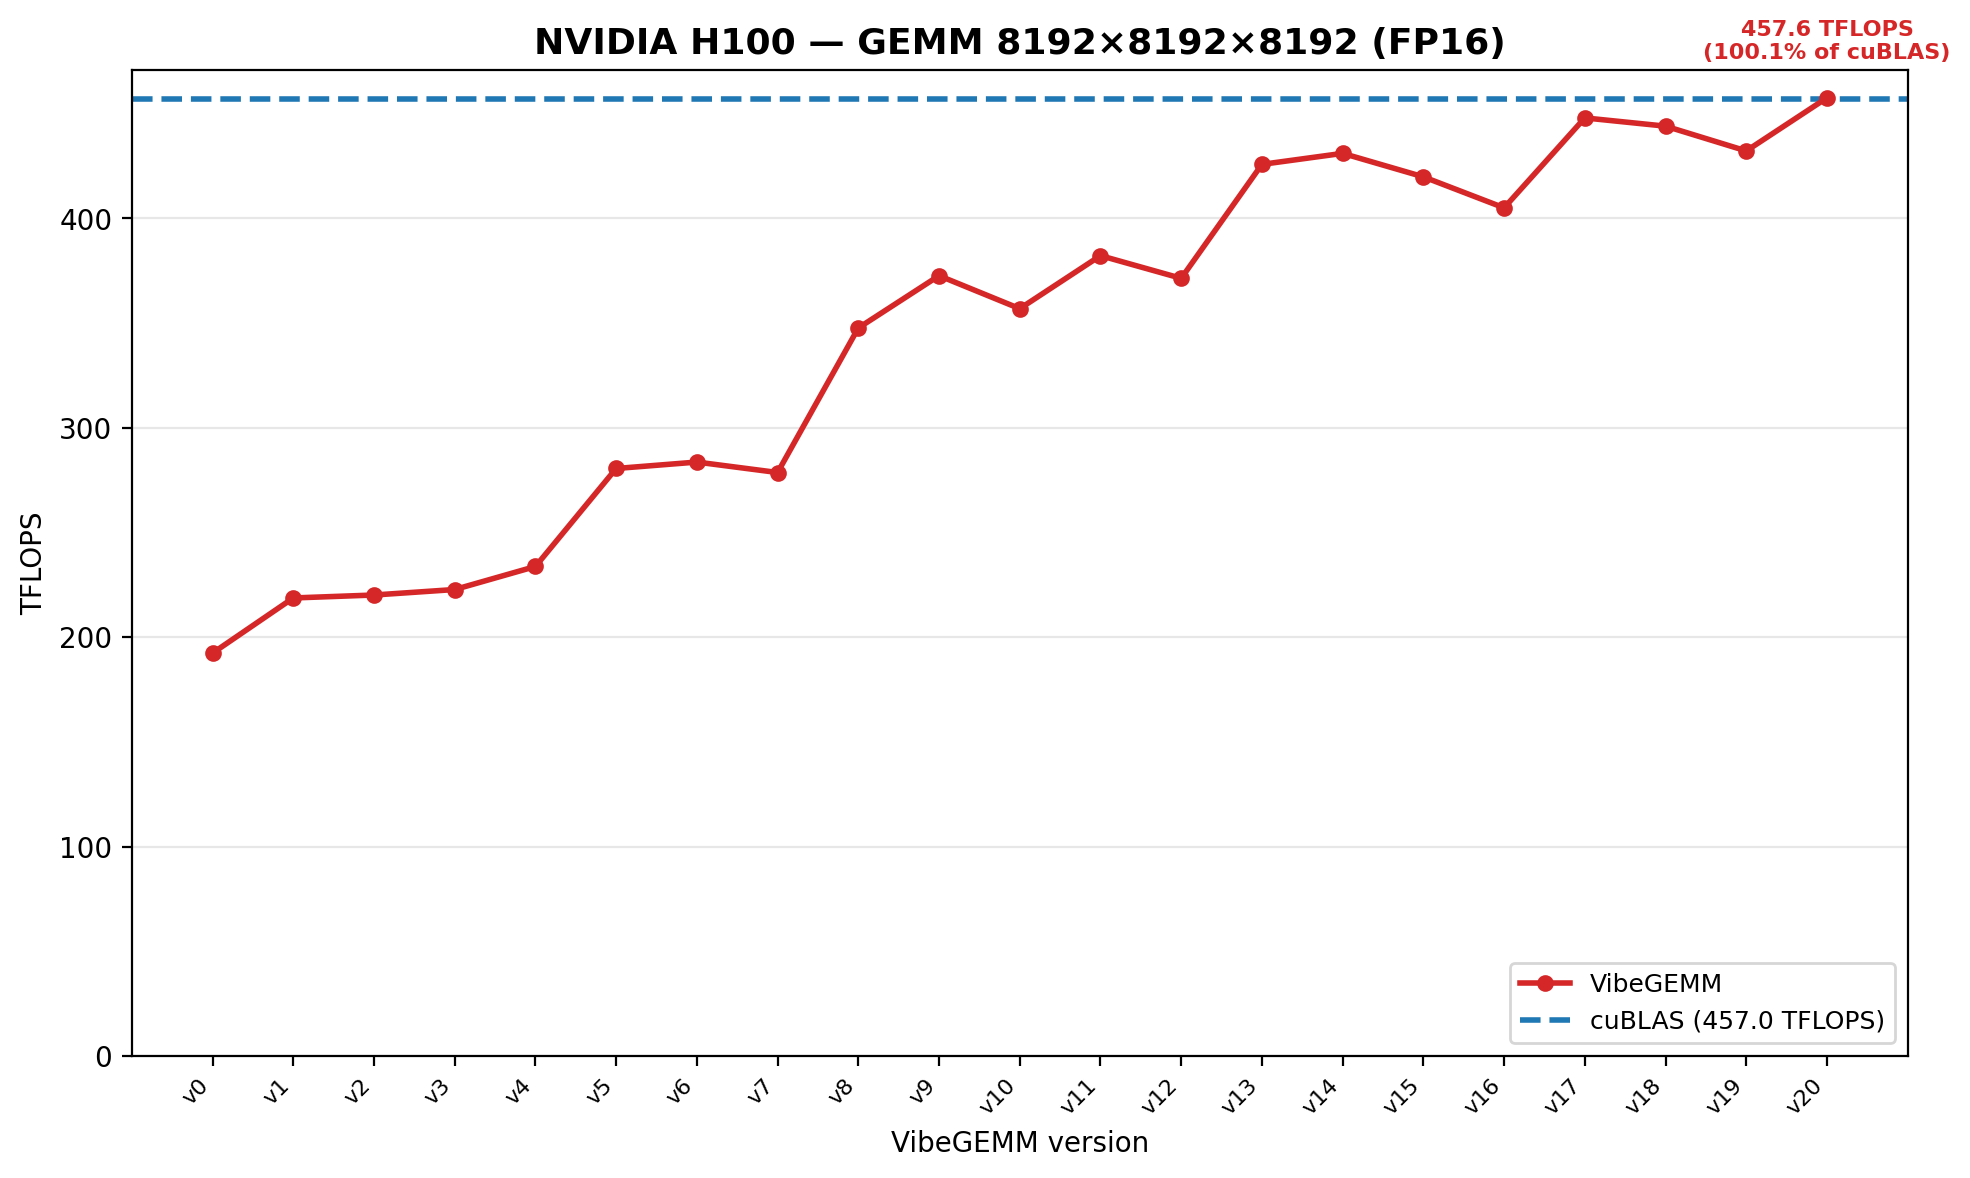
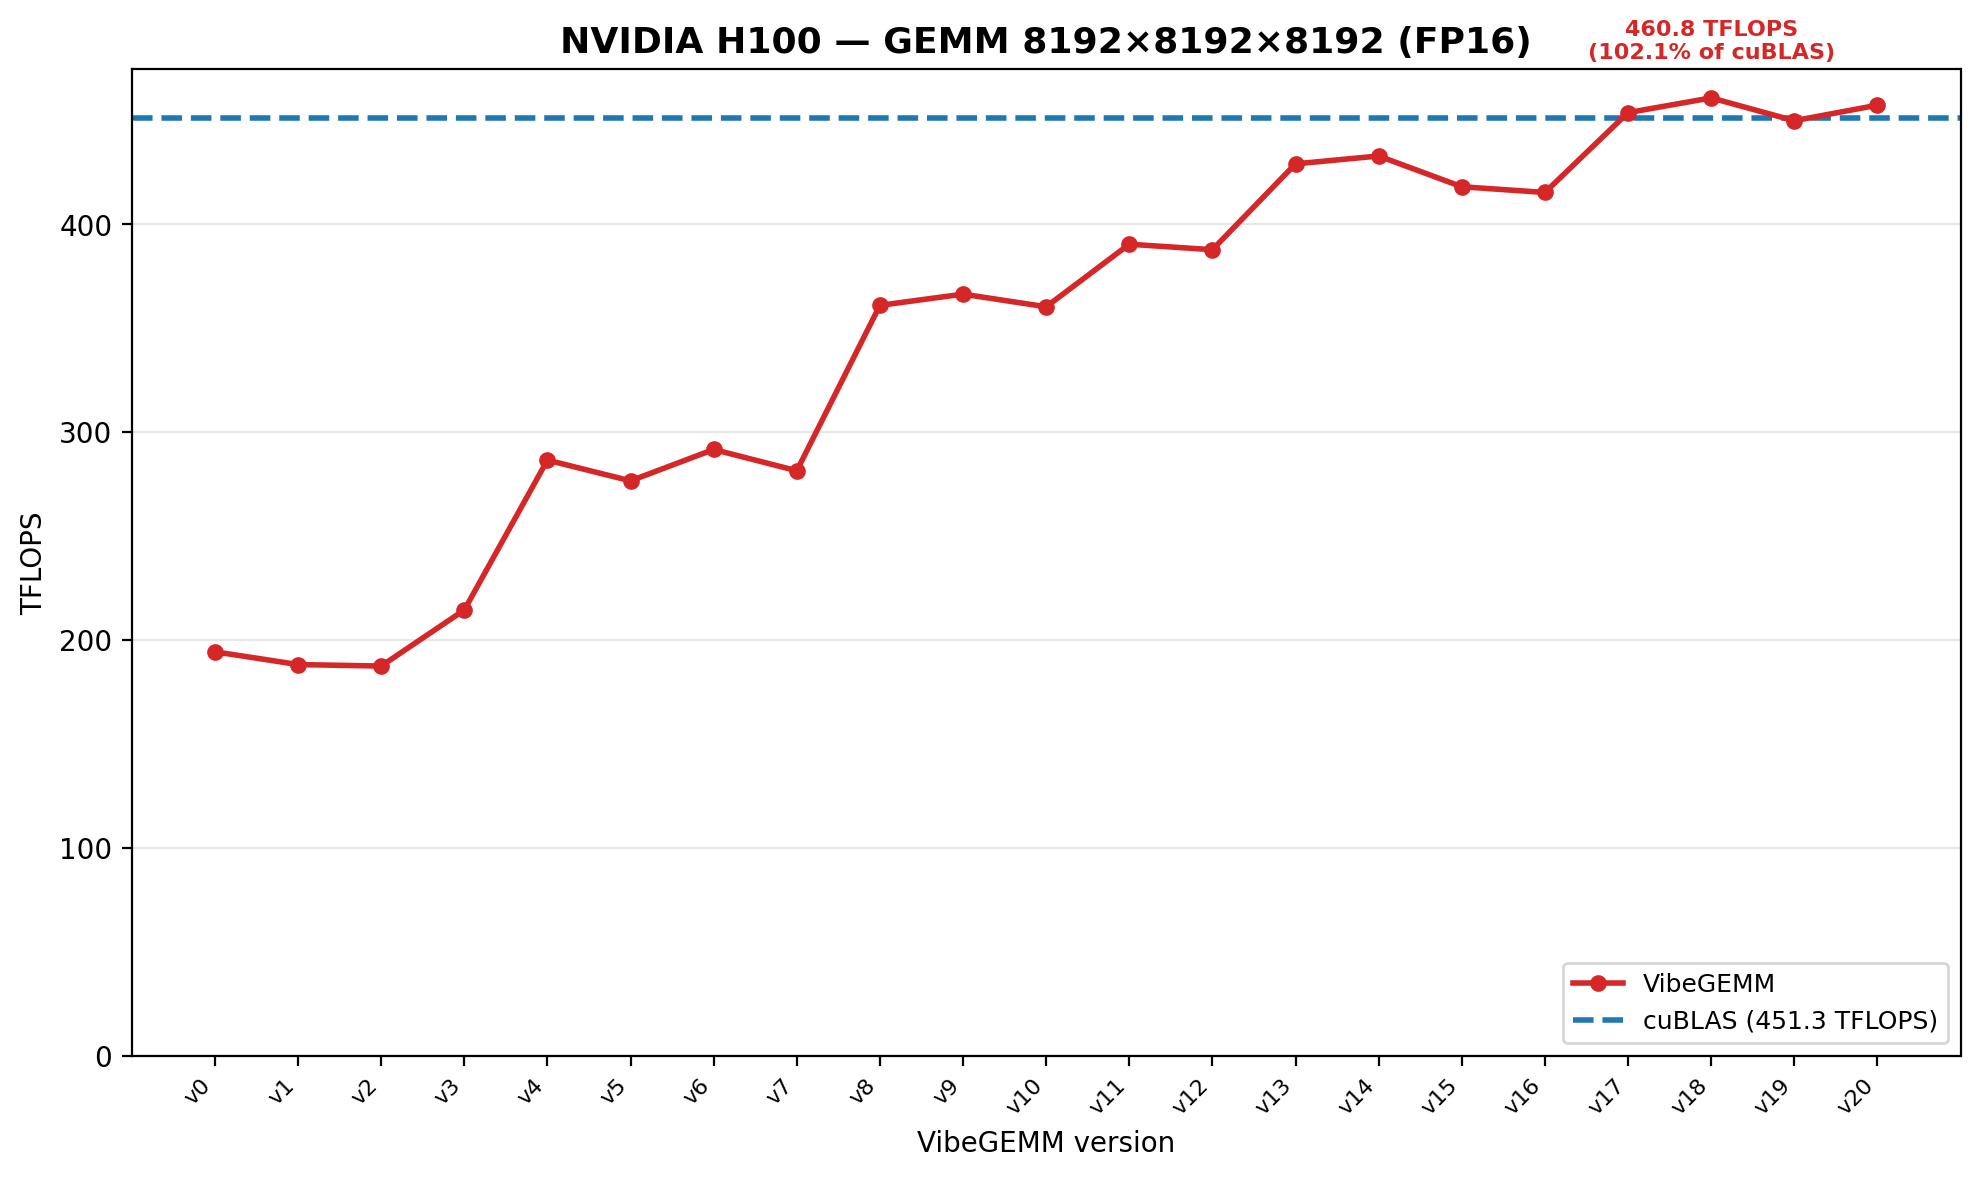
modify README

diff --git a/README.md b/README.md
@@ -142,7 +142,7 @@ The A100 backend evolves through 12 kernel versions (v0–v11). The initial naiv
 
 ![H100 Performance](results/perf_h100.png)
 
-The H100 backend spans 21 kernel versions (v0–v20) and starts from a much higher baseline: v0 already delivers 192.4 TFLOPS by leveraging the H100's larger shared memory and higher memory bandwidth. Versions v1–v4 make incremental improvements through tile shape tuning and occupancy optimization, reaching 233.8 TFLOPS. A significant jump occurs at v5 (280.6 TFLOPS) with improved warp scheduling and asynchronous copy (TMA) utilization. Versions v8–v9 introduce further register-level optimizations, crossing 370 TFLOPS. The v13–v14 range refines instruction scheduling and shared memory bank conflict avoidance, reaching 431 TFLOPS. Final versions v17–v20 push throughput to 457.6 TFLOPS, effectively **matching cuBLAS** (457.0 TFLOPS) at 100.1% of the baseline.
+The H100 backend includes 21 kernel versions (v0–v20). It starts from a strong baseline, with v0 reaching 194.40 TFLOPS. Early versions v1–v7 remain in the 188–292 TFLOPS range as tile shapes and execution parameters are explored. A clear improvement appears in v8–v12, where performance rises to 361–390 TFLOPS. Versions v13–v16 further improve scheduling and memory behavior, reaching up to 432.88 TFLOPS. The final versions v17–v20 approach and slightly exceed cuBLAS performance: v18 achieves the best result at 460.83 TFLOPS, compared with 451.30 TFLOPS for cuBLAS, reaching 102.1% of the cuBLAS baseline.
 
 ### Summary
 
